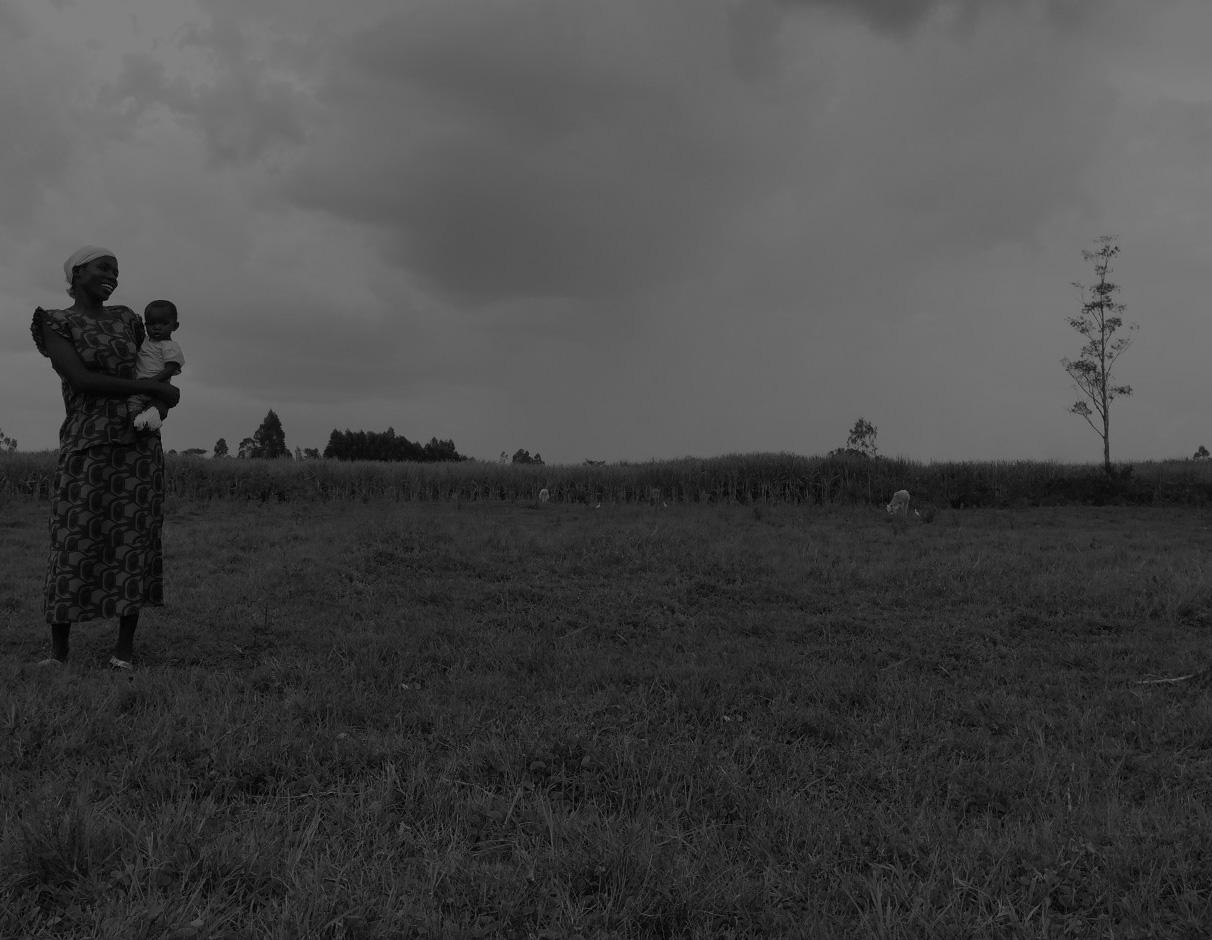
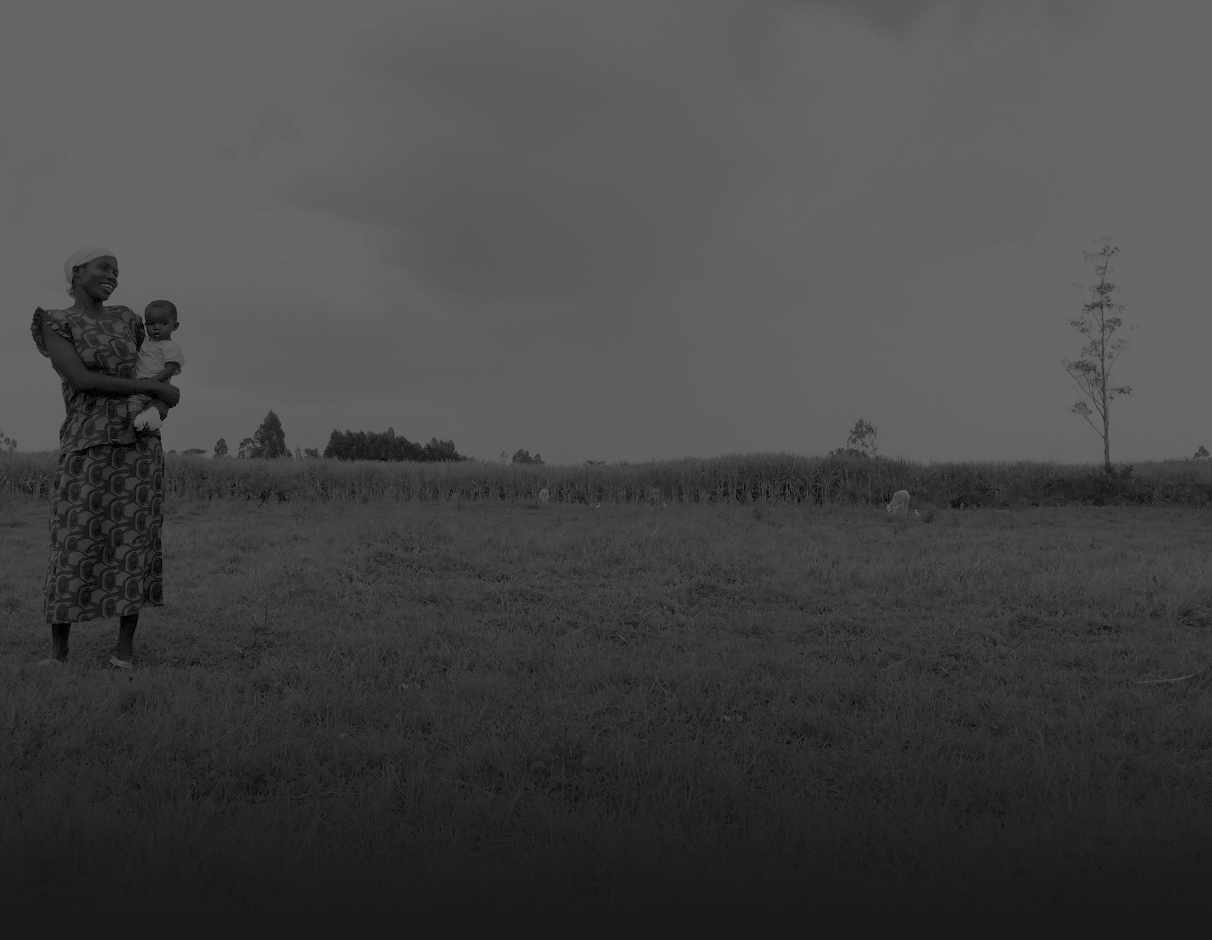
clean on up index and styling

diff --git a/index.html b/index.html
@@ -38,13 +38,13 @@
             <body>
 
                 <!--Loading gif -->
-                <table class="doc-loader">
+                <!--<table class="doc-loader">
                     <tr>
                         <td>
                             <img src="images/ajax-document-loader.gif" alt="Loading..." />
                         </td>
                     </tr>
-                </table>    
+                </table> -->   
 
                 <!--Navigation Menu-->
                 <div id="main-menu" class="main-menu" style="display:none;">        
@@ -78,6 +78,8 @@
                               <a href="#register" class="button green slow-scroll">Register Now</a>
                           </div>
 
+                          <div class="top-50"><img src="images/arrow-animation.gif"></div>
+
                       </center>
                   </div>
 
@@ -93,16 +95,15 @@
                  <div class="block content-960 center-relative">  
                     <h2 class="section-title montserrat-font">ABOUT US</h2>
                     <div class="title-separator"></div>                     
-                    <div class="two_third top-20">
-                        <p class="info">Inspiring and Equipping Entrepreneurs to Lead</p>
+                    <div class="one_half top-20">
+                        <p class="info bottom-20">Inspiring and Equipping Entrepreneurs to Lead</p>
                         ELEO is unique among tech conference in the Valley. Instead of talking fundraising, pitching, or the X's and O's of running a company, we focus on something more fundamental: Leadership. We believe that every startup needs strong leadership, and that it can be learned and honed over time. 
                         <br>
                         <br>
                         Each year, we bring the best leaders from around the Valley together to a one-day conference. At ELEO, you won't learn theory, but practical advice from about how to actually run your company or organization. This year, we have an extremely diverse speaker lineup. You will learn from top VCs, fortune 500 CEOs, serial entrepreneurs and everyone in between.
                     </div>
-                </div>
 
-                <div class="one_third last top-20 bottom-100">
+                    <div class="one_half last top-20 bottom-100">
                     <div class="vimeo">
                         <div id="video_player">
                             <a href="http://vimeo.com/82994894?autoplay=1&width=960&height=540" rel="prettyPhoto">
@@ -110,6 +111,7 @@
                             </a>
                         </div>      
                     </div>
+                </div>
                 </div>
                 <div class="clear"></div>
             </div> 
@@ -170,7 +172,7 @@
                 </ul>
                 <h1 class="single-blog-title montserrat-font top-20">PAT GELSINGER</h1>
                 <ul class="date-author-likes-holder bottom-20"><li class="date">CEO, VMware</li></ul>
-                <br/>
+
                 Pat is the CEO of VMWare, one of the largest cloud computing and virtualization companies in the world, with 2013 revenues of $5.2B. <a href="pat.html">Learn more</a>
             </div>
 
@@ -200,7 +202,6 @@
                 </ul>
                 <h1 class="single-blog-title montserrat-font top-20">CHI-HUA CHIEN</h1>
                 <ul class="date-author-likes-holder bottom-20"><li class="date">General Partner, KPCB</li></ul>
-                <br/>
                 Chi-hua is a partner at KPCB focused on consumer technology. During his career, he has been involved in investments in Facebook, Twitter, Spotify and Chegg. <a href="chi-hua-chien.html">Learn More</a>
             </div>
             <div class="one_half last">
@@ -229,7 +230,6 @@
                 </ul>
                 <h1 class="single-blog-title montserrat-font top-20">BRAD LOMENICK</h1>
                 <ul class="date-author-likes-holder bottom-20"><li class="date">Former President, Catalyst; Author, The Catalyst Leader</li></ul>
-                <br/>
                 Brad Lomenick is the founder of Catalyst Conference, one of the largest leadership conferences in the world. He has a passion for connecting leaders and starting movements. <a href="brad-lomenick.html">Learn More</a>
             </div>
             <div class="one_half last">
@@ -323,7 +323,7 @@
             </div>
 
 
-            <div class="one_half last bottom-100">
+            <div class="one_half last bottom-150">
                 <div class="vimeo">  
                     <iframe src="http://player.vimeo.com/video/70296287?title=0&amp;portrait=0&amp;badge=0&amp;autoplay=0"></iframe>        
                 </div>
@@ -340,7 +340,7 @@
      <div class="block content-960 center-relative">  
         <h2 class="section-title montserrat-font">THE</BR>FLOW</h2>
         <div class="title-separator"></div>                     
-        <p class="info bottom-150">Schedule of Events</p>
+        <p class="info bottom-100">Schedule of Events</p>
         <ul class="cbp_tmtimeline">
         <li>
             <!-- <time class="cbp_tmtime" datetime="2014-07-26 13:00"><span>12:00</span></time> -->
@@ -457,10 +457,10 @@
 <!--REGISTER-->
 <div id="register" class="clear about section block">
     <div class="block content-960 center-relative"> 
-        <h2 class="section-title montserrat-font">BUY</br>TICKETS</h2>
+        <h2 class="section-title montserrat-font">BUY TICKETS</h2>
         <div class="title-separator"></div> 
 
-        <div class="one_half top-80">  
+        <div class="one_half">  
 
             <div class="pricing-holder">                                            
                 <div class="pricing-header">
@@ -468,15 +468,18 @@
                 </div>
                 <div class="pricing-content">
                     <p class="top-50 bottom-50" style="font-weight: bold; color: #4abd92; font-size: 5EM;">$25</p>
-                    <p>General Admission early bird pricing until June 15th.</p>
+                    <p>General Admission is $50<br /><b>Early Bird Rate Ends on June 15th</b></p>
+                    <img src="images/eventbrite.png" style="margin:25px 0 -25px 0;">
                 </div>
             </div>
-          <a target="_top" href="#eventbrite"  class="button green" rel="prettyPhoto">Purchase Tickets</a>
+          <a target="_top" href="#eventbrite"  class="tickets-button green" rel="prettyPhoto">Buy Tickets</a>
         </div>      
         <div class="one_half last top-80">
             <p style="font-size:1.6em;">Saturday, July 26, 2014</p>
+
             <p style="font-size:1.6em;">2-6PM</p>
-            <p>South Bay Church, 1180 Murphy Ave, San Jose, CA</p>
+            <br />
+            <p>South Bay Church<br />1180 Murphy Ave, San Jose, CA</p>
             <br />
             <p>ELEO Conference is a one-day conference in Silicon Valley. Come hear from entrepreneurs, CEOs and VCs about what it takes to lead a company.</p>
         </div>
@@ -593,7 +596,7 @@
 <div class="one_fourth last">
     <img src="images/mike.jpg">
     <h2 class="external-subtitles montserrat-font">MIKE LOUIE</h2>
-    <span style="font-size:13px;">Marketing Guru</br></span>
+    <span style="font-size:13px;">Marketing Guru</br><a style="color:#4abd92; text-decoration:none;" href="https://twitter.com/mewie"><b>@mewie</b></a></span>
 </div>
 <div class="clear"></div>
 <div class="one_fourth">
@@ -616,7 +619,19 @@
     <h2 class="external-subtitles montserrat-font">WANDIA CHIURI</h2>
     <span style="font-size:13px;">Communications</br><a style="color:#4abd92; text-decoration:none;" href="https://twitter.com/wandia_info"><b>@wandia_info</b></a></span>
 </div>
-<div class="clear"></div>       
+<div class="clear"></div>  
+
+<div class="one_fourth">
+    <img src="images/adrienne.jpg">
+    <h2 class="external-subtitles montserrat-font">EUGENE MIN</h2>
+    <span style="font-size:13px;">Something Cool</br><a style="color:#4abd92; text-decoration:none;" href="https://twitter.com/shenventure"><b>@shenventure</b></a></span>
+</div>
+<div class="one_fourth">
+    <img src="images/mark.jpg">
+    <h2 class="external-subtitles montserrat-font">RICK LAPOINTE</h2>
+    <span style="font-size:13px;">Something Cool</br></span>
+</div>
+<div class="clear"></div>      
 </div>  
 
 </div>  

diff --git a/css/style.css b/css/style.css
@@ -10,13 +10,37 @@ body
 
 /* ---------------- CUSTOM --------------------*/
 #watsi {
-	background: url('../images/watsi-bg2.jpg') no-repeat top center;
+	background: url('../images/watsi-bg2.jpg') #181818 no-repeat top center;
 	background-size: cover;
+	overflow: auto;
 }
 .map {
 	background: url('../images/map.jpg') no-repeat top center;
 	background-size: cover;
 	height: 400px;
+}
+.tickets-button 
+{
+	background: #f2620e;
+	display: block;
+	color: white;
+	border: none;
+	text-align: center;
+	padding: 15px 40px;
+	cursor: pointer;
+	margin-bottom: 25px;
+	vertical-align: middle;
+	text-decoration: none;
+}
+.tickets-button:hover
+{
+	background: #fc9a22;
+}
+.close-x {
+	position: fixed;
+	top: 0;
+	border: none;
+	right: 0;
 }
 .title-tag {
 color: white;
@@ -820,15 +844,16 @@ margin-bottom: 37px;
 .pricing-holder
 {
 text-align: center;
-border: 1px solid #4abd92;
-border-radius: 10px;
+border-bottom: 2px solid #EBEBEB;
+border-radius: 10px 10px 0 0;
 position: relative;
 margin-bottom: 25px;
+background: white;
 }
 .pricing-header
 {
 color: white;
-background: #4abd92;
+background: #32414D;
 border-radius: 8px 8px 0 0px;
 padding: 15px 0;
 }

diff --git a/kevin-compton.html b/kevin-compton.html
@@ -35,7 +35,7 @@
             <!--Single Post-->
             <div class="clear block">	
                 <div class="block content-960 center-relative">
-                <a href="index.html#speakers"><img src="images/x.png" style="position: fixed;top: 0; border:none; right: 0;"></a>
+                <a href="index.html#speakers"><img src="images/x.png" class="close-x"></a>
                 <div class=" top-50 bottom-20" style="text-align:right;"><a href="pat.html" class="button green slow-scroll"><</a><a href="chi-hua-chien.html" class="button green slow-scroll" style="border-left:none;">></a></div>
 
                     <div class="one_third">

diff --git a/css/timeline.css b/css/timeline.css
@@ -77,7 +77,7 @@
 }
  
 .cbp_tmtimeline > li .cbp_tmlabel h2 { 
-font-size: 2em;
+font-size: 1.5em;
 line-height: 39px;
     margin-top: 0px;
     padding: 0 0 10px 0;
@@ -187,8 +187,8 @@ line-height: 39px;
  
     .cbp_tmtimeline > li .cbp_tmicon {
         position: relative;
-        float: right;
+        float: left;
         left: auto;
-        margin: -55px 5px 0 0px;
+        margin: 15px 5px 0 -46px;
     }   
 }

diff --git a/css/responsive.css b/css/responsive.css
@@ -107,7 +107,13 @@ margin: 0 5px;
 }
 
 @media screen and (max-width: 423px) {
-
+.close-x {
+position: absolute;
+top: 0;
+border: none;
+right: 6px;
+width: 50px !important;
+}
 div.content-960
 { 
 	width: 90%;
